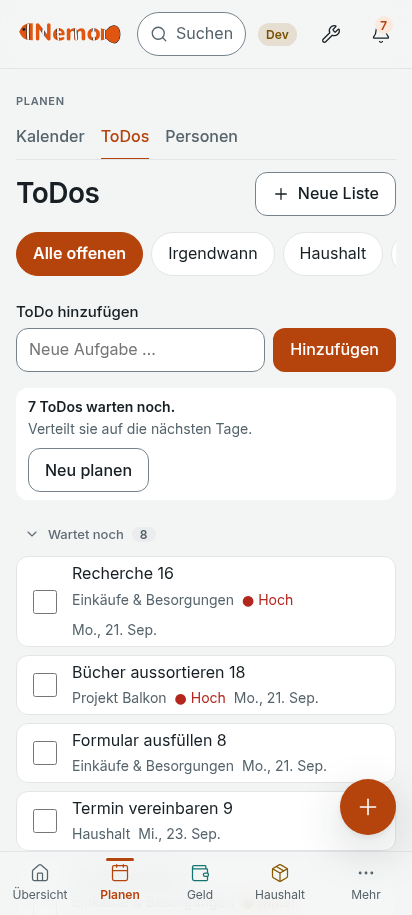
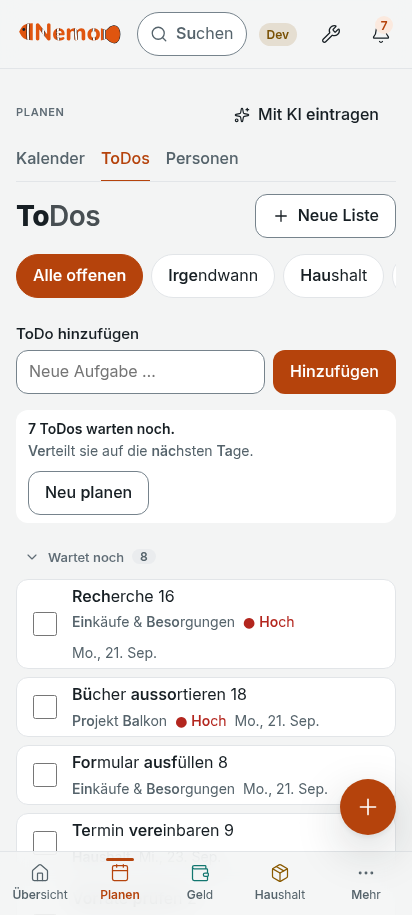
fix(ui): one wrapper element per emphasised text (flex gaps); screenshots at 100 %
Claude-Session: https://claude.ai/code/session_018BCgCwneH7VVzqeNUHishb

diff --git a/web/src/ui/ReadableText.test.tsx b/web/src/ui/ReadableText.test.tsx
@@ -88,7 +88,7 @@ describe('the JSX runtime hands plain text children to the reading aid', () => {
         <button type="button">Speichern</button>
         <code>geheimerSchluessel</code>
         <textarea defaultValue="Notizentext" />
-        <span>1.234,56 €</span>
+        <span className="num">1.234,56 €</span>
       </div>,
     );
     const strong = (sel: string) =>
@@ -99,7 +99,7 @@ describe('the JSX runtime hands plain text children to the reading aid', () => {
     expect(strong('button')).toEqual(['Spei']);
     expect(container.querySelector('code [data-rs]')).toBeNull();
     expect(container.querySelector('textarea [data-rs]')).toBeNull();
-    expect(container.querySelector('span [data-rs]')).toBeNull();
+    expect(container.querySelector('.num [data-rs]')).toBeNull();
   });
 
   it('headings in the primary ink get a dimmed rest; body text only changes weight', () => {

diff --git a/web/e2e/screenshots/capture.spec.ts b/web/e2e/screenshots/capture.spec.ts
@@ -106,12 +106,12 @@ test('capture layout screenshots', async ({ browser }) => {
     const page = await context.newPage();
     if (process.env.SCREENS_DESKTOP)
       await page.addInitScript(() => localStorage.setItem('__tmPlatformKind', 'desktop'));
-    // SCREENS_READ=1 shows the reading aid (scope: lists too), as in the readability PR.
+    // SCREENS_READ=<25|50|75|100> shows the reading aid with that coverage.
     if (process.env.SCREENS_READ)
-      await page.addInitScript(() => {
+      await page.addInitScript((cover) => {
         localStorage.setItem('tm-read-aid', '1');
-        localStorage.setItem('tm-read-scope', 'lists');
-      });
+        localStorage.setItem('tm-read-cover', cover);
+      }, process.env.SCREENS_READ);
     await bootDev(page);
     await seedApp(page, SCALE);
     if (process.env.SCREENS_DESKTOP) await enableDisk(page);

diff --git a/web/src/core/text/ReadableText.tsx b/web/src/core/text/ReadableText.tsx
@@ -87,7 +87,8 @@ export function ReadableText({
   if (!runs) return <>{text}</>;
   const firstStrong = runs.findIndex((r) => r.strong);
   return (
-    <>
+    // One wrapper element: in a flex/grid container with a gap the words stay a single item, as the plain string was.
+    <span data-rt="">
       {runs.map((r, i) =>
         r.strong ? (
           <span key={i} data-rs={heavy ? 'h' : ''} ref={i === firstStrong ? probe : undefined}>
@@ -101,6 +102,6 @@ export function ReadableText({
           r.text
         ),
       )}
-    </>
+    </span>
   );
 }
